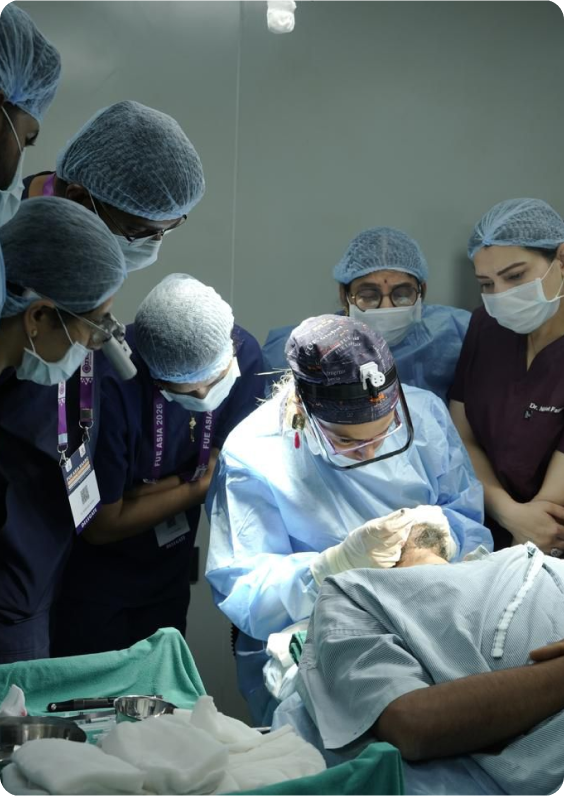
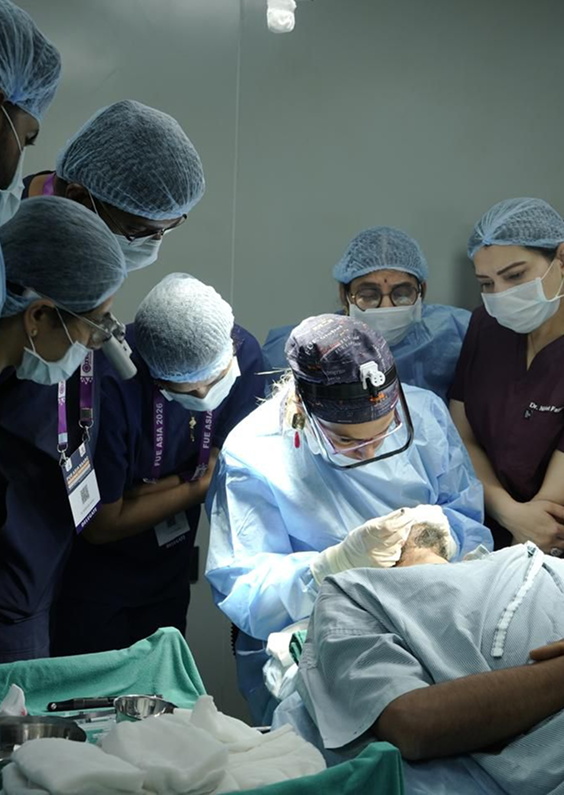
Kod değişiklikleri yapıldı.

diff --git a/src/components/about/ozlembicer/ozlemBicerHero.jsx b/src/components/about/ozlembicer/ozlemBicerHero.jsx
@@ -17,7 +17,7 @@ export default function OzlemBicerHero() {
                     </article>
                 </MotionLeftView>
                 <MotionRightView className="order-1 lg:order-2 w-full max-w-140.5">
-                    <Image src="/images/about/ozlem-hero.png" alt="Dr. Özlem Bicer" width={580} height={780} className='object-contain object-center mx-auto w-full max-w-fit lg:max-w-135 2xl:max-w-140.5 h-fit max-h-100 sm:max-h-130 md:max-h-150 lg:max-h-fit' />
+                    <Image src="/images/about/ozlem-hero-1.png" alt="Dr. Özlem Bicer" width={580} height={780} className='object-contain object-center mx-auto w-full max-w-fit lg:max-w-135 2xl:max-w-140.5 h-fit max-h-100 sm:max-h-130 md:max-h-150 lg:max-h-fit rounded-4xl' />
                 </MotionRightView>
             </section>
         </main>

diff --git a/src/components/home/hero/index.jsx b/src/components/home/hero/index.jsx
@@ -47,7 +47,7 @@ const heroSlideItems = [
         title: ["Internationally", "Acclaimed", "Faculty Member"],
         mobileTitle: ["Internationally", "Acclaimed", "Faculty Member"],
         description: "Dr. Özlem Bicer brings over 27 years of experience and is an esteemed member of the International Society of Hair Restoration Surgery (ISHRS). She is supported by a dedicated team of highly trained nurses, making us one of the most reputable and experienced hair transplant teams worldwide.",
-        imageSrc: "/images/hero-carousel/hero-3.png",
+        imageSrc: "/images/hero-carousel/hero-3-dene.png",
         imageAlt: "hero ozlem bicer 2",
         links: [
             {
